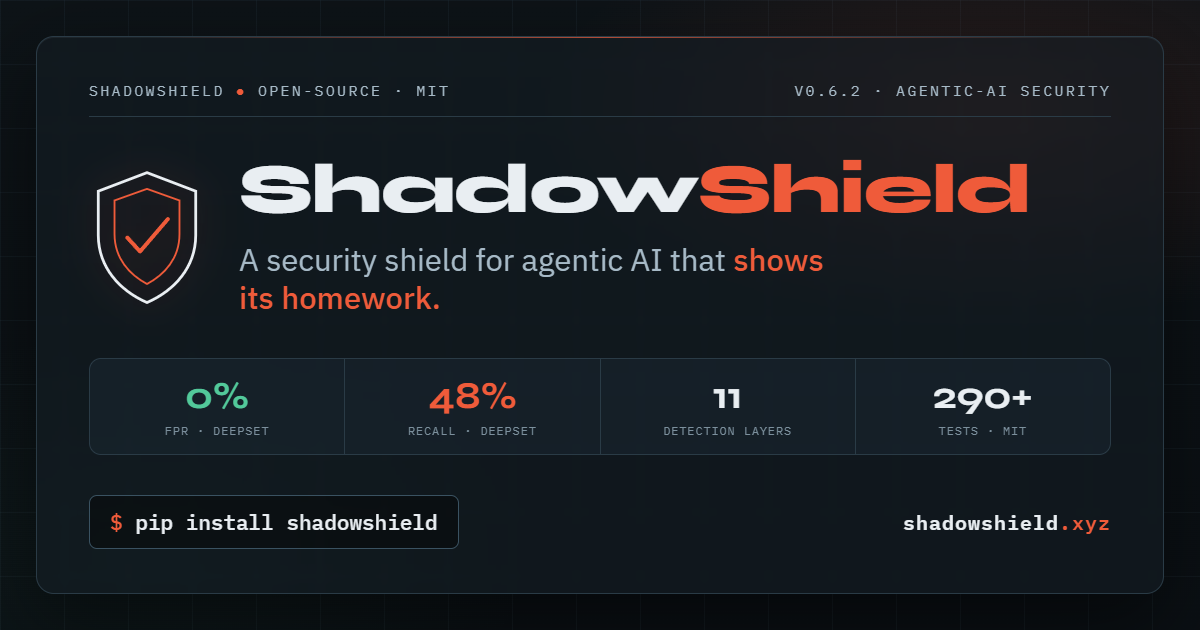
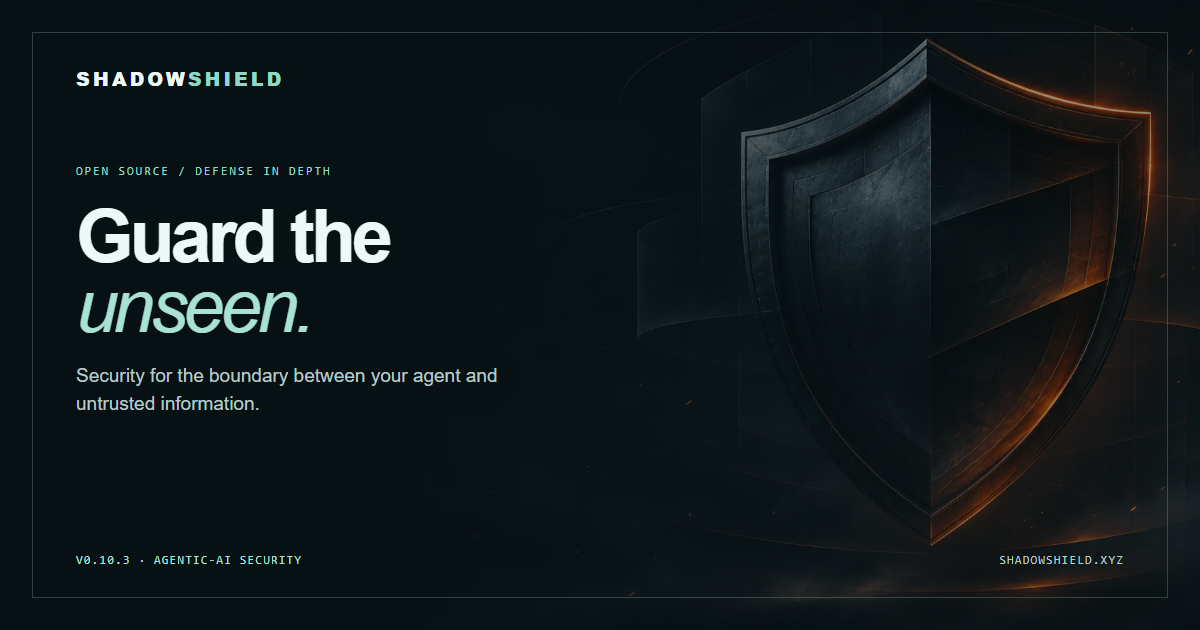
Refresh social preview to match cinematic site

diff --git a/site/og.html b/site/og.html
@@ -1,89 +1,35 @@
 <!doctype html>
 <html lang="en">
 <head>
-<meta charset="utf-8" />
-<!-- Source for site/og.png — render at exactly 1200x630 and screenshot. Glass Box edition. -->
-<link rel="preconnect" href="https://fonts.googleapis.com" />
-<link rel="preconnect" href="https://fonts.gstatic.com" crossorigin />
-<link href="https://fonts.googleapis.com/css2?family=Syne:wght@600;700;800&family=IBM+Plex+Mono:wght@400;500;600&family=IBM+Plex+Sans:wght@400;500&display=swap" rel="stylesheet" />
-<style>
-  :root{
-    --void:#0d1317; --void2:#0a0f13; --glass:rgba(28,42,52,.42); --glass2:#141d24;
-    --edge:#2a3b46; --edge-hi:#3a5261; --text:#e9eef2; --muted:#a7bac7; --dim:#7c909d;
-    --ember:#ef5b3a; --ember-deep:#bd3a1e; --pass:#52c99a;
-    --mono:"IBM Plex Mono",monospace; --display:"Syne",sans-serif; --sans:"IBM Plex Sans",sans-serif;
-  }
-  *{margin:0;padding:0;box-sizing:border-box}
-  html,body{width:1200px;height:630px;overflow:hidden}
-  body{position:relative; font-family:var(--mono); color:var(--text);
-    background:
-      radial-gradient(ellipse 60% 55% at 82% 18%, rgba(239,91,58,.13), transparent 62%),
-      radial-gradient(ellipse 55% 60% at 12% 88%, rgba(82,201,154,.05), transparent 60%),
-      linear-gradient(rgba(58,82,97,.14) 1px, transparent 1px),
-      linear-gradient(90deg, rgba(58,82,97,.14) 1px, transparent 1px),
-      linear-gradient(180deg, var(--void), var(--void2));
-    background-size:auto,auto,64px 64px,64px 64px,auto}
-  .frame{position:absolute; inset:36px; border:1px solid var(--edge); background:rgba(20,29,36,.55);
-    backdrop-filter:blur(4px); border-radius:18px; padding:44px 52px;
-    display:flex; flex-direction:column; justify-content:space-between;
-    box-shadow:inset 0 1px 0 rgba(233,238,242,.06), 0 30px 80px rgba(0,0,0,.5)}
-  .frame::before{content:""; position:absolute; top:0; left:10%; right:10%; height:1px;
-    background:linear-gradient(90deg, transparent, var(--ember), transparent); opacity:.7}
-  .top{display:flex; justify-content:space-between; align-items:center; font-size:14.5px;
-    letter-spacing:.18em; text-transform:uppercase; color:var(--muted);
-    border-bottom:1px solid var(--edge); padding-bottom:16px}
-  .top .dot{color:var(--ember)}
-  .mid{display:flex; align-items:center; gap:34px}
-  .mid .crest{flex:0 0 auto; width:116px; filter:drop-shadow(0 0 18px rgba(239,91,58,.35))}
-  h1{font-family:var(--display); font-weight:800; font-size:70px; line-height:.94; letter-spacing:-.02em}
-  h1 .g{color:var(--ember)}
-  .tag{font-family:var(--sans); font-weight:400; font-size:31px; line-height:1.25; color:var(--muted);
-    margin-top:18px; max-width:32ch}
-  .tag b{color:var(--ember); font-weight:500}
-  .stats{display:flex; border:1px solid var(--edge); border-radius:12px; background:var(--glass); overflow:hidden}
-  .stat{flex:1; padding:18px 6px 16px; border-right:1px solid var(--edge); text-align:center}
-  .stat:last-child{border-right:0}
-  .stat .n{font-family:var(--display); font-weight:700; font-size:38px; line-height:1}
-  .stat .n.pass{color:var(--pass)} .stat .n.acc{color:var(--ember)}
-  .stat .l{font-size:11.5px; letter-spacing:.1em; text-transform:uppercase; color:var(--dim); margin-top:8px}
-  .bot{display:flex; justify-content:space-between; align-items:center}
-  .pip{font-size:21px; font-weight:500; background:rgba(0,0,0,.4); border:1px solid var(--edge-hi);
-    border-radius:8px; color:var(--text); padding:12px 20px}
-  .pip .p{color:var(--ember)}
-  .url{font-size:20px; letter-spacing:.05em; color:var(--text); font-weight:600}
-  .url .x{color:var(--ember)}
-</style>
+  <meta charset="utf-8">
+  <title>ShadowShield — security for agentic AI</title>
+  <style>
+    * { box-sizing: border-box; }
+    html, body { margin: 0; width: 1200px; height: 630px; overflow: hidden; }
+    body { color: #edf8f7; font-family: Arial, sans-serif; background: #071114; }
+    .art { position: absolute; width: 1200px; height: 630px; object-fit: cover; opacity: .72; }
+    .shade { position: absolute; inset: 0; background: linear-gradient(90deg, #071114 0%, rgba(7,17,20,.96) 31%, rgba(7,17,20,.2) 82%); }
+    .frame { position: absolute; inset: 32px; border: 1px solid rgba(168,218,210,.24); }
+    .copy { position: absolute; left: 76px; top: 65px; width: 630px; }
+    .brand { font-weight: 800; letter-spacing: .16em; font-size: 19px; }
+    .brand span { color: #8ed9c8; }
+    .kicker { margin-top: 72px; color: #8ed9c8; font: 12px monospace; letter-spacing: .16em; }
+    h1 { margin: 24px 0 18px; font-size: 74px; line-height: .95; letter-spacing: -.055em; }
+    h1 em { font-weight: 400; color: #a7e2d4; }
+    p { color: #b8cac8; font-size: 19px; line-height: 1.5; max-width: 440px; }
+    .bottom { position: absolute; bottom: 63px; left: 76px; right: 76px; display: flex; justify-content: space-between; color: #b7cbc7; font: 12px monospace; letter-spacing: .1em; text-transform: uppercase; }
+    .version { color: #a7e2d4; }
+  </style>
 </head>
 <body>
-  <div class="frame">
-    <div class="top">
-      <span>ShadowShield <span class="dot">●</span> Open-Source · MIT</span>
-      <span>v0.10.3 · Agentic-AI Security</span>
-    </div>
-
-    <div class="mid">
-      <svg class="crest" viewBox="0 0 100 120" fill="none" stroke="#e9eef2" stroke-width="2.4" aria-hidden="true">
-        <path d="M50 4 L92 20 V58 C92 86 73 106 50 116 C27 106 8 86 8 58 V20 Z"/>
-        <path d="M50 18 L78 28 V57 C78 78 65 92 50 100 C35 92 22 78 22 57 V28 Z" stroke="#ef5b3a" stroke-width="1.6"/>
-        <path d="M33 60 l11 12 24 -28" stroke="#ef5b3a" stroke-width="3.4" stroke-linecap="round" stroke-linejoin="round"/>
-      </svg>
-      <div>
-        <h1>Shadow<span class="g">Shield</span></h1>
-        <div class="tag">A security shield for agentic AI that <b>shows its homework.</b></div>
-      </div>
-    </div>
-
-    <div class="stats">
-      <div class="stat"><div class="n pass">0%</div><div class="l">FPR &middot; deepset</div></div>
-      <div class="stat"><div class="n acc">48%</div><div class="l">Recall · deepset</div></div>
-      <div class="stat"><div class="n">11</div><div class="l">Detection layers</div></div>
-      <div class="stat"><div class="n">290+</div><div class="l">Tests · MIT</div></div>
-    </div>
-
-    <div class="bot">
-      <span class="pip"><span class="p">$</span> pip install shadowshield</span>
-      <span class="url">shadowshield<span class="x">.xyz</span></span>
-    </div>
+  <img class="art" src="shield-hero.webp" alt="">
+  <div class="shade"></div><div class="frame"></div>
+  <div class="copy">
+    <div class="brand">SHADOW<span>SHIELD</span></div>
+    <div class="kicker">OPEN SOURCE / DEFENSE IN DEPTH</div>
+    <h1>Guard the<br><em>unseen.</em></h1>
+    <p>Security for the boundary between your agent and untrusted information.</p>
   </div>
+  <div class="bottom"><span class="version">v0.10.3 · Agentic-AI Security</span><span>shadowshield.xyz</span></div>
 </body>
 </html>
